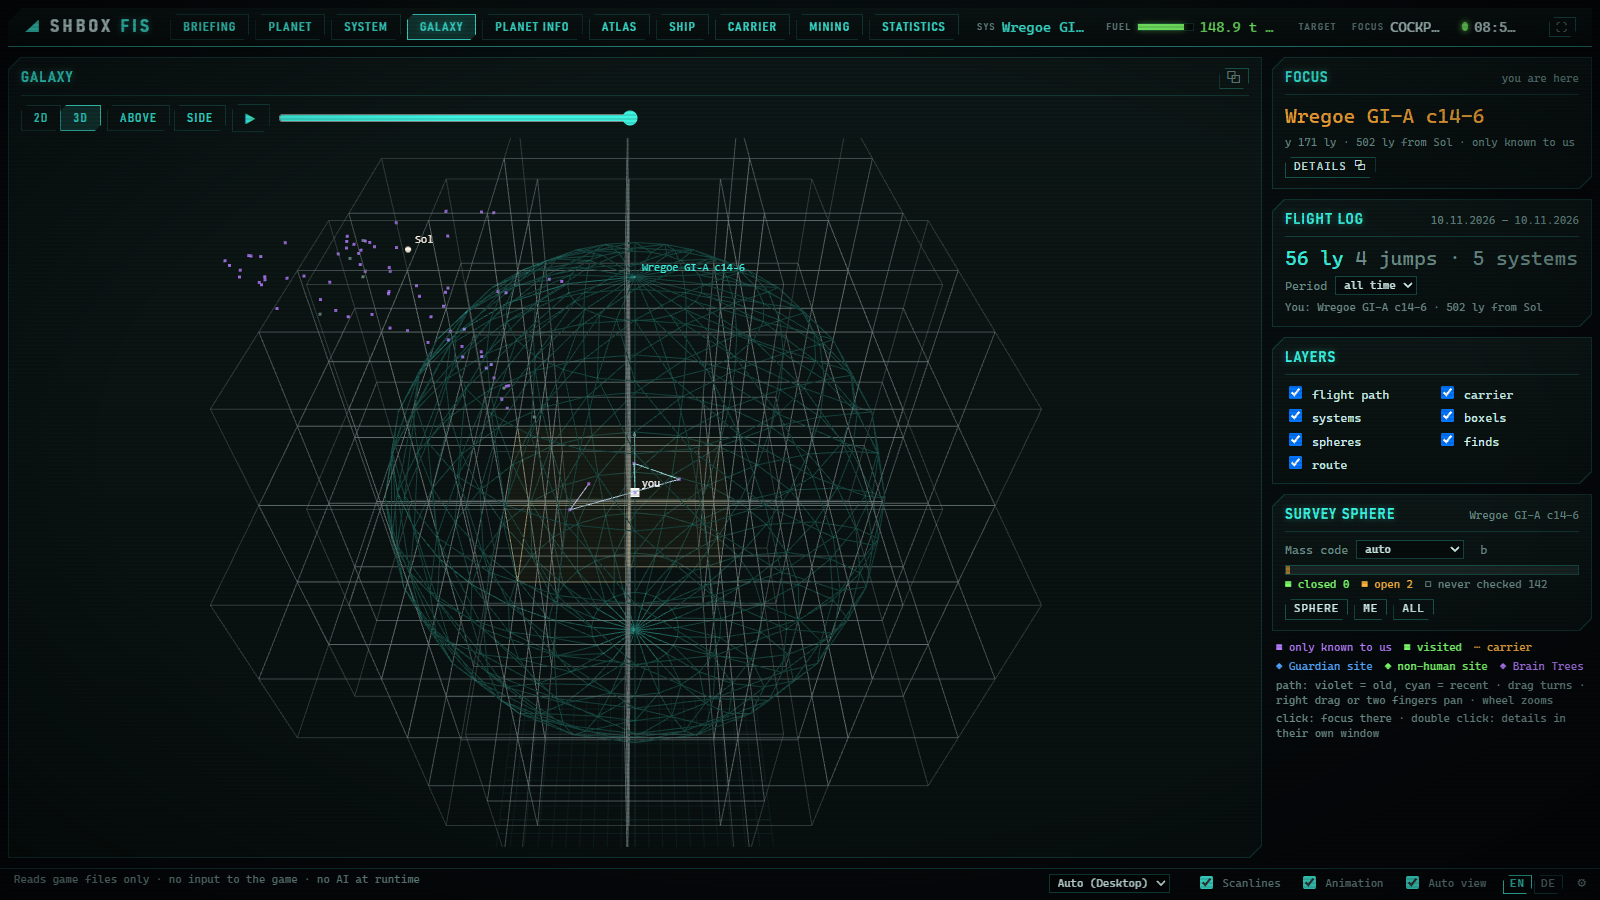
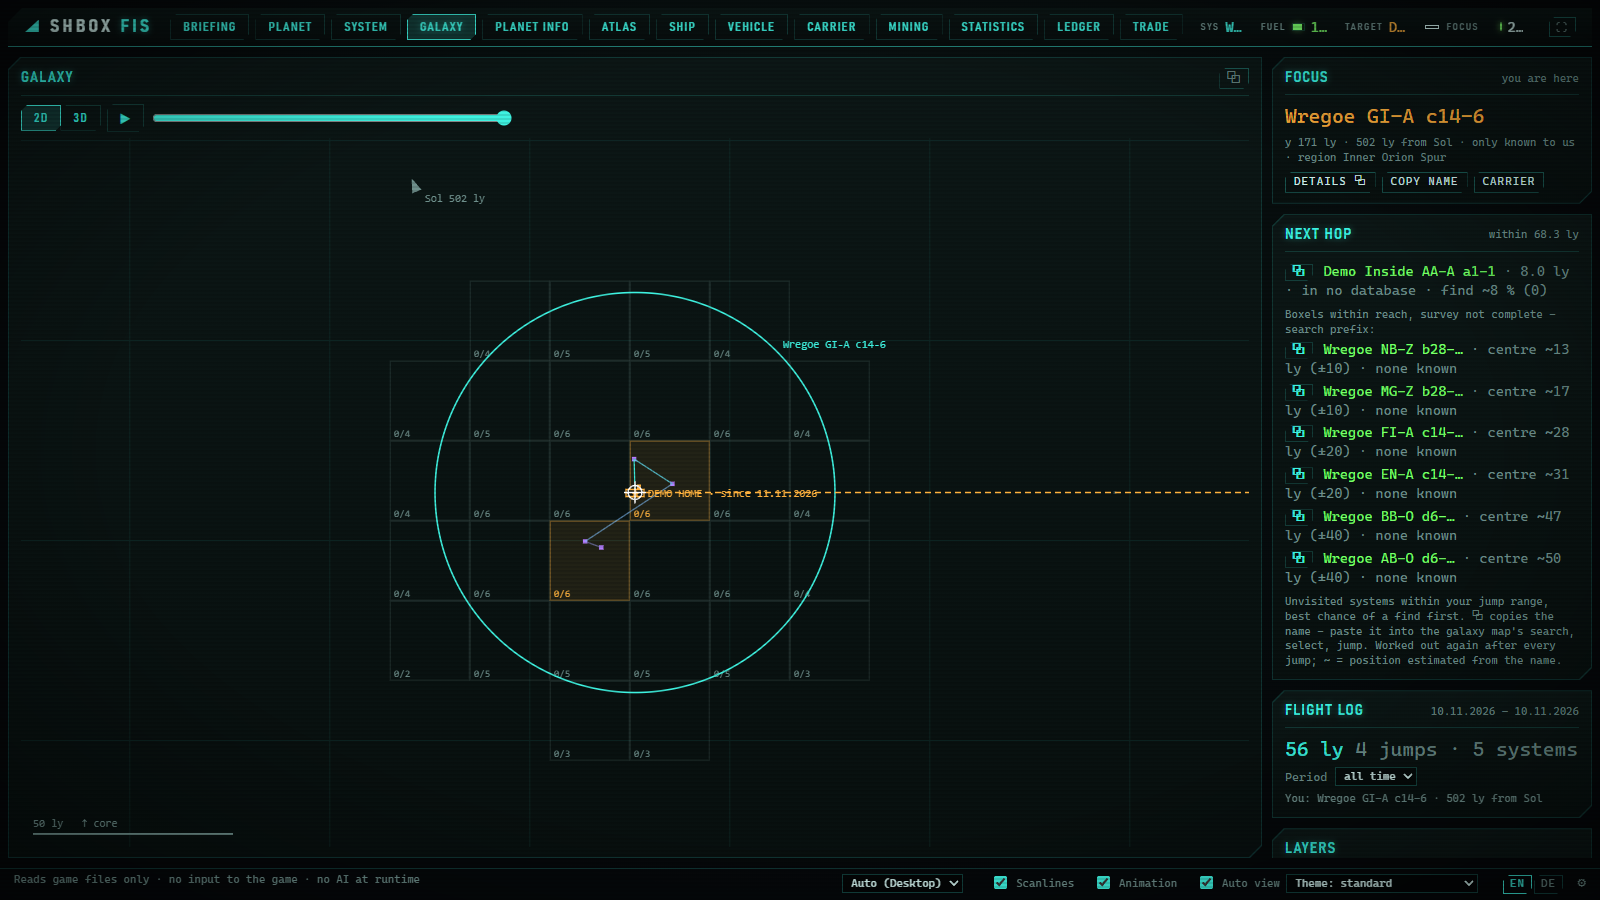
FIS screenshots: every page, in tab order (SC1)
Fourteen pages from the demo data (1600 x 900, English, theme standard):
BRIEFING, PLANET, SYSTEM, GALAXY, PLANET INFO, ATLAS, SHIP, VEHICLE,
CARRIER, MINING, STATISTICS, LEDGER, TRADE, SETTINGS. Checked for real
positions, carrier names, callsigns, IP, token and QR code: none; the
settings page hides its storage path. FIS/README.md lists them all.

diff --git a/FIS/README.md b/FIS/README.md
@@ -249,32 +249,64 @@ names too (`/#system`, `/#planetinfo`, `/#stats`).
 
 Demo data: a copy of a real plugin database with the commander's current
 area, carrier, earnings and surface tracks removed; commander and ship are
-called DEMO, the position is Wregoe GI-A c14-6. 1600 × 900, English.
+called DEMO, the position is Wregoe GI-A c14-6. 1600 × 900, English, theme
+standard. Every page, in the order of the tabs.
 
-**SYSTEM** - the system in 3D with Kepler orbits, flight plan legs, bio and
-first-footfall marks, and a rule-based system report.
+**BRIEFING** - the next target and the sphere ahead: what is left, the chance of a find, the time and value still to come.
+
+![BRIEFING view](docs/screenshots/demo_briefing.png)
+
+**PLANET** - the surface around you: bio finds, samples and their spacing.
+
+![PLANET view](docs/screenshots/demo_planet.png)
+
+**SYSTEM** - the system in 3D with Kepler orbits, flight plan legs, bio and first-footfall marks, and a rule-based system report.
 
 ![SYSTEM view](docs/screenshots/demo_system.png)
 
-**GALAXY** - the survey sphere and its boxels in 3D, flight path, known
-systems; the focus panel and flight log on the right.
+**GALAXY** - the survey sphere and its boxels in 3D, flight path, known systems, the next hop; the focus panel and flight log on the right.
 
-![GALAXY view in 3D](docs/screenshots/demo_galaxy.png)
+![GALAXY view](docs/screenshots/demo_galaxy.png)
 
-**PLANET INFO** - datasheet, science report, atmosphere and surface, biology
-of the selected body.
+**PLANET INFO** - datasheet, science report, atmosphere and surface, biology of the selected body.
 
 ![PLANET INFO view](docs/screenshots/demo_planetinfo.png)
 
-**SHIP** - status lamps from `Status.json`, schematic cutaway, damage and
-function report, engineer view of power and module health.
+**ATLAS** - signals, rings, materials and finds of every known body, nearest first, with a top view around you.
+
+![ATLAS view](docs/screenshots/demo_atlas.png)
+
+**SHIP** - the annunciator from `Status.json`, schematic cutaway, damage and function report, engineer view of power and module health.
 
 ![SHIP view](docs/screenshots/demo_ship.png)
 
-**ATLAS** - signals, rings, materials and finds of every known body, nearest
-first, with a top view around you.
+**VEHICLE** - SRV, Nomad and Scarab: tanks, cargo, synthesis.
 
-![ATLAS view](docs/screenshots/demo_atlas.png)
+![VEHICLE view](docs/screenshots/demo_vehicle.png)
+
+**CARRIER** - your fleet carrier: position, tritium and range with the time per jump, jump plan, carrier trade, known carriers.
+
+![CARRIER view](docs/screenshots/demo_carrier.png)
+
+**MINING** - rocks, tonnes and limpets, learnt from your own runs.
+
+![MINING view](docs/screenshots/demo_mining.png)
+
+**STATISTICS** - overview, history, rates and times, and the learning status with the reality check of every model.
+
+![STATISTICS view](docs/screenshots/demo_statistics.png)
+
+**LEDGER** - gain and loss like a business statement: segments, balance, outlook.
+
+![LEDGER view](docs/screenshots/demo_ledger.png)
+
+**TRADE** - commodity trades against the galactic mean.
+
+![TRADE view](docs/screenshots/demo_trade.png)
+
+**SETTINGS** - language, display links, unsold-data limits, the app.
+
+![SETTINGS view](docs/screenshots/demo_settings.png)
 
 ## Third-party parts
 
